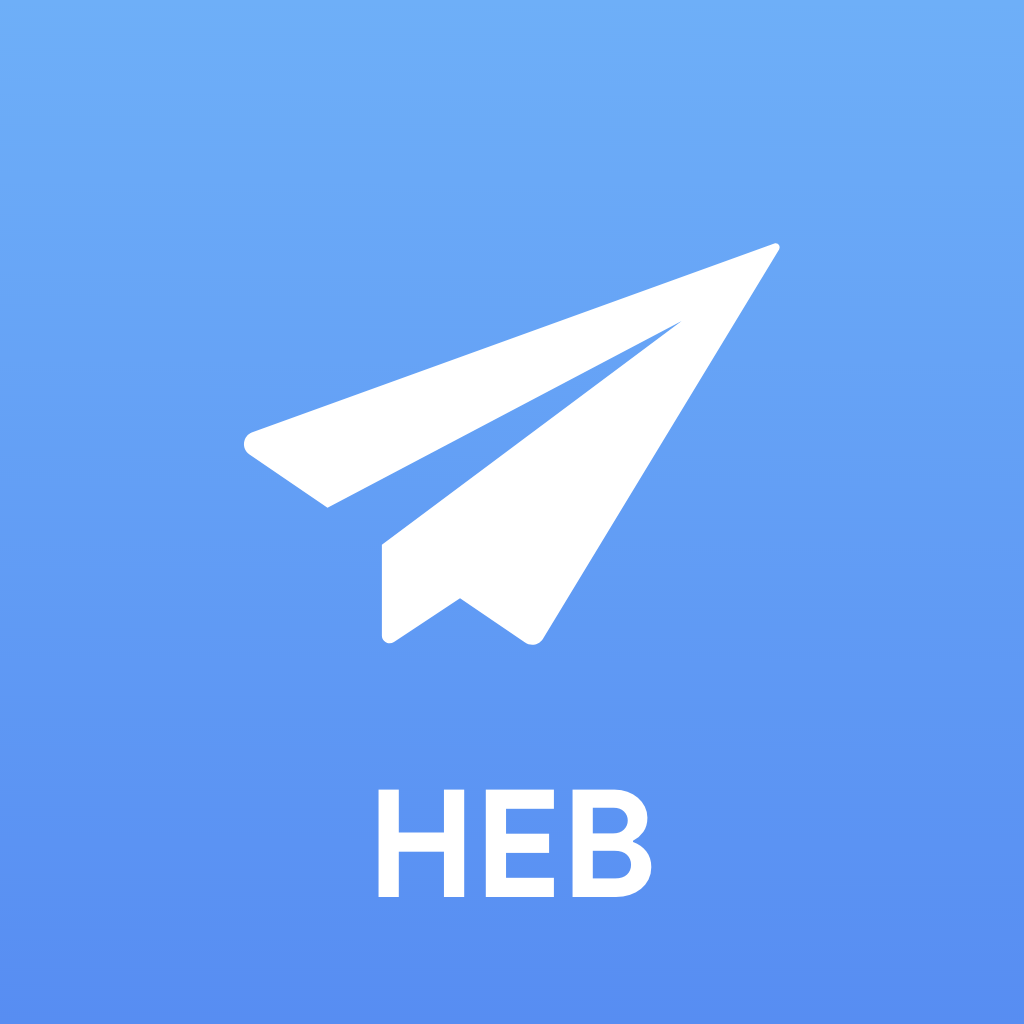
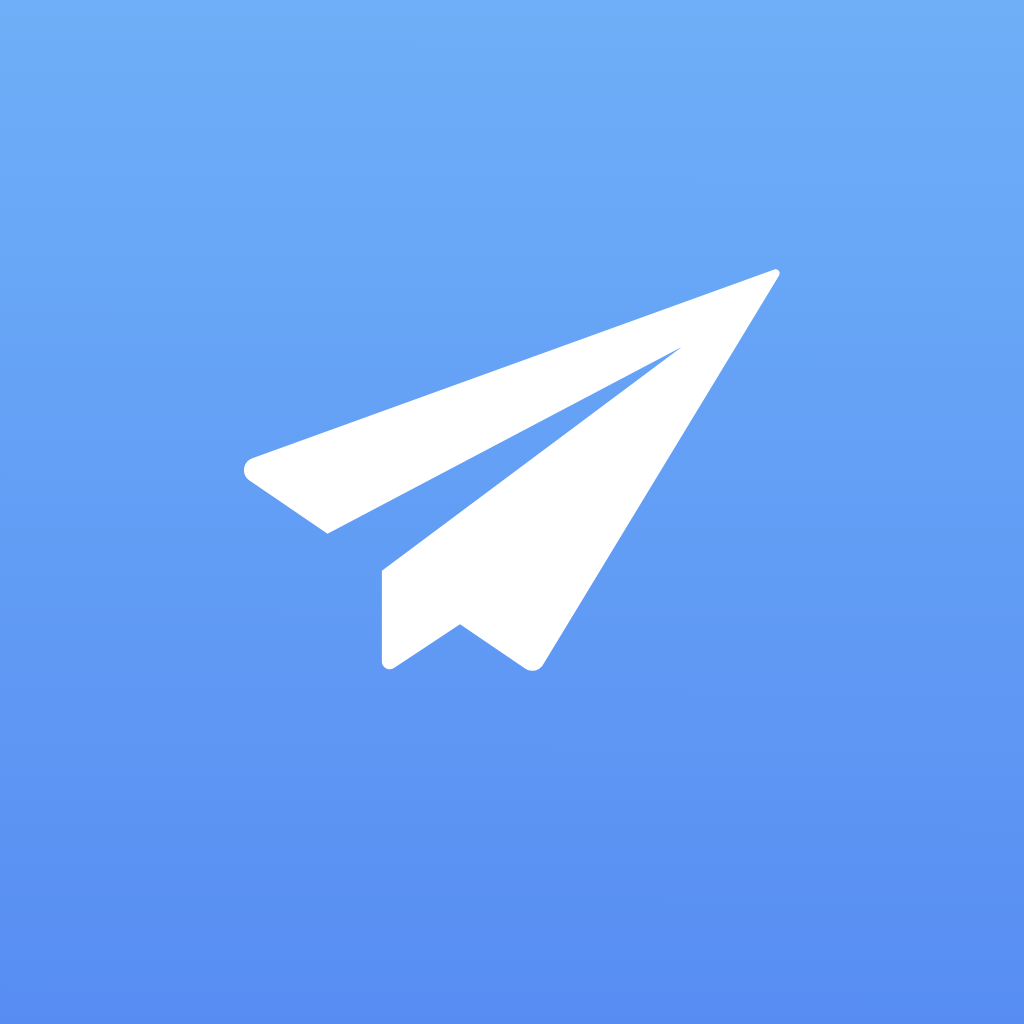
Updates

diff --git a/service-worker.js b/service-worker.js
@@ -37,7 +37,7 @@
 /* eslint-disable indent, no-unused-vars, no-multiple-empty-lines, max-nested-callbacks, space-before-function-paren, quotes, comma-spacing */
 'use strict';
 
-var precacheConfig = [["asset-manifest.json","d4511aee889f175e9337dd95642ffe23"],["favicon.ico","fd73a6eb26a08ee46e7fd3cc34e7f6bf"],["guides/1/0.png","639252f17a2ca5c0ade1f13b7278b1be"],["guides/1/1.png","db9a02b7b1e5dfc66c22195151ace0e8"],["guides/1/2.png","310691de2ee835bd74445cc0475a91ad"],["guides/10/0.png","6ac0cb50df014e01d73c4bbacf0b17ad"],["guides/10/1.png","8040d13a3c7bd964b04e853f79a73572"],["guides/10/2.png","79814e1cfd43e74f7aa3dba6a14a3dfc"],["guides/11/0.png","6ac0cb50df014e01d73c4bbacf0b17ad"],["guides/11/1.png","0c0eccca4b5c88d749d21bf042a7f794"],["guides/11/2.png","79814e1cfd43e74f7aa3dba6a14a3dfc"],["guides/12/0.png","639252f17a2ca5c0ade1f13b7278b1be"],["guides/12/1.png","1ab777f80ae75605ae4eced8a305e856"],["guides/12/2.png","3a8efa2fcb50c9770f0d56144ae1817f"],["guides/12/3.png","764076e609624c75d781ac5e2290364e"],["guides/12/4.png","877086393939b84eb0c6cafd34d1c222"],["guides/12/5.png","744ec3224b270829336609294f29543b"],["guides/13/0.png","ccd13009d35b6719a670c528d932bd03"],["guides/13/1.png","e68a9bf3e0eeccb5bd448163e354f6c3"],["guides/13/2.png","a85f7074380a8fe7aa75265a50624a54"],["guides/14/0.png","ccd13009d35b6719a670c528d932bd03"],["guides/14/1.png","157b5d5f49e513cfc32e8ae40b9a5dab"],["guides/14/2.png","a61f497655e57a10dfc1c8a906aaf1df"],["guides/14/3.png","8778ded03e7121231fcff44fe6c9107d"],["guides/15/0.png","ccd13009d35b6719a670c528d932bd03"],["guides/15/1.png","ecf26576edefe5f93e102500b67bad7a"],["guides/15/2.png","a0bd0fb530efe9741554081e827deab5"],["guides/2/0.png","639252f17a2ca5c0ade1f13b7278b1be"],["guides/2/1.png","89577602e15876d791b8de4e1b20e2ca"],["guides/2/2.png","eb846ea6617dfa75ccfbe7595a91f147"],["guides/2/3.png","14cc52be3596018a236a2cefb470986e"],["guides/3/0.png","04bf34aadf7c4800735a83ad16aeef4c"],["guides/3/1.png","744ec3224b270829336609294f29543b"],["guides/3/2.png","690a6ce088b785ddd8e0a4709367d64a"],["guides/3/3.png","bf24b376540c290caa1026513638dfd0"],["guides/3/4.png","258f331ab02ecc3b46179b4a4fcd7c6e"],["guides/4/0.png","8da18976430c48a2fd99a50aac5214fa"],["guides/5/0.png","a3147c4a089735802ce4f05aa1f1286e"],["guides/5/1.png","9a52430f22546c2770323fa60e0c944e"],["guides/5/2.png","42e1f0577ac7dee87b72d3ec17e38099"],["guides/5/3.png","8598f9899c0eb845c80f1b7c35145bc2"],["guides/5/4.png","8fb3ad5103902c6265d343d626c34bc9"],["guides/6/0.png","a3147c4a089735802ce4f05aa1f1286e"],["guides/6/1.png","9a52430f22546c2770323fa60e0c944e"],["guides/6/2.png","0f638c3f077ffa38041190230012e3e3"],["guides/6/3.png","9a456cc745d687d08f84d3360333232f"],["guides/6/4.png","9fe056df03697878636d2d66471d38c1"],["guides/6/5.png","fae0b9c9fead49cc09b57d9745024884"],["guides/7/0.png","59059efbff8ccd04f054a79661519948"],["guides/7/1.png","cfb99c78ccd3508c470422d35c44eb10"],["guides/7/2.png","136bd1cf3e224936d6e11d7d3a27b21f"],["guides/8/0.png","cd1c69fcee0c95a2e7334d033010e158"],["guides/8/1.png","900876d7ee45ad77cff2893c086c2758"],["guides/8/2.png","346b7081e959511fe13ce57fd7c6075b"],["guides/9/0.png","8c9848e747eacbe3883ab1a07838dc90"],["guides/9/1.png","9fce10a7076497402a98132d768280ea"],["guides/9/2.png","551969cbf36c4e56fe76994738dff182"],["guides/9/3.png","a44dadc10fc6e3c80c7bd192023ac61c"],["guides/9/4.png","2318802669185854c24110f46ff29e2f"],["icon.png","b336aeaf562774ffff6ac5d3d04b6562"],["icons/back.png","9bbfcb226b8b399e141b6f4e5bc37829"],["icons/books.png","bca3414c73ffd1a6115f7a2708264e2d"],["icons/camera.png","fb6b94ce1f5a0370cc1bae9568934c92"],["icons/clock.png","3f7c06d6e47b091eddf6f230ae8baf7e"],["icons/dji.png","23acd56c72e26ce225e89d326502a052"],["icons/duo.png","2d2c5fcb1697f64147ee8980d56ec71c"],["icons/facetime.png","0e8055adf95d3a13f0443780eaa42531"],["icons/icloud.png","f2e8c7d934a270c123f5f9efb6c08b9b"],["icons/messages.png","4ccc59cabb884457259b73d346e1452e"],["icons/nextcloud.png","88b03909244a765431dca2bd0d487b28"],["icons/sbb.png","96dab48f44482e42c19dfe5ad60d772f"],["icons/settings.png","44dc0d989b8219f897059266cdf27c26"],["icons/tripadvisor.png","d35f0a422d8f13fcbf7f15d86e734daa"],["index.html","ade064b7a7dfb11e0cb3d81fd88a73b2"],["manifest.json","a4ca799b0b2685cae7209d87b2822991"],["static/css/main.b274ac76.css","d7169f705179ed7bcc52412890d773a7"],["static/js/main.2d69c281.js","f5beb04daf3b92dae4e80cd74da58618"],["static/media/SF-Pro-Display-Bold.644563f4.otf","644563f48ab5fe8e9082b64b2729b068"],["static/media/SF-Pro-Display-Medium.51fd7406.otf","51fd7406327f2b1dbc8e708e6a9da9a5"]];
+var precacheConfig = [["asset-manifest.json","d4511aee889f175e9337dd95642ffe23"],["favicon.ico","fd73a6eb26a08ee46e7fd3cc34e7f6bf"],["guides/1/0.png","639252f17a2ca5c0ade1f13b7278b1be"],["guides/1/1.png","db9a02b7b1e5dfc66c22195151ace0e8"],["guides/1/2.png","310691de2ee835bd74445cc0475a91ad"],["guides/10/0.png","6ac0cb50df014e01d73c4bbacf0b17ad"],["guides/10/1.png","8040d13a3c7bd964b04e853f79a73572"],["guides/10/2.png","79814e1cfd43e74f7aa3dba6a14a3dfc"],["guides/11/0.png","6ac0cb50df014e01d73c4bbacf0b17ad"],["guides/11/1.png","0c0eccca4b5c88d749d21bf042a7f794"],["guides/11/2.png","79814e1cfd43e74f7aa3dba6a14a3dfc"],["guides/12/0.png","639252f17a2ca5c0ade1f13b7278b1be"],["guides/12/1.png","1ab777f80ae75605ae4eced8a305e856"],["guides/12/2.png","3a8efa2fcb50c9770f0d56144ae1817f"],["guides/12/3.png","764076e609624c75d781ac5e2290364e"],["guides/12/4.png","877086393939b84eb0c6cafd34d1c222"],["guides/12/5.png","744ec3224b270829336609294f29543b"],["guides/13/0.png","ccd13009d35b6719a670c528d932bd03"],["guides/13/1.png","e68a9bf3e0eeccb5bd448163e354f6c3"],["guides/13/2.png","a85f7074380a8fe7aa75265a50624a54"],["guides/14/0.png","ccd13009d35b6719a670c528d932bd03"],["guides/14/1.png","157b5d5f49e513cfc32e8ae40b9a5dab"],["guides/14/2.png","a61f497655e57a10dfc1c8a906aaf1df"],["guides/14/3.png","8778ded03e7121231fcff44fe6c9107d"],["guides/15/0.png","ccd13009d35b6719a670c528d932bd03"],["guides/15/1.png","ecf26576edefe5f93e102500b67bad7a"],["guides/15/2.png","a0bd0fb530efe9741554081e827deab5"],["guides/2/0.png","639252f17a2ca5c0ade1f13b7278b1be"],["guides/2/1.png","89577602e15876d791b8de4e1b20e2ca"],["guides/2/2.png","eb846ea6617dfa75ccfbe7595a91f147"],["guides/2/3.png","14cc52be3596018a236a2cefb470986e"],["guides/3/0.png","04bf34aadf7c4800735a83ad16aeef4c"],["guides/3/1.png","744ec3224b270829336609294f29543b"],["guides/3/2.png","690a6ce088b785ddd8e0a4709367d64a"],["guides/3/3.png","bf24b376540c290caa1026513638dfd0"],["guides/3/4.png","258f331ab02ecc3b46179b4a4fcd7c6e"],["guides/4/0.png","8da18976430c48a2fd99a50aac5214fa"],["guides/5/0.png","a3147c4a089735802ce4f05aa1f1286e"],["guides/5/1.png","9a52430f22546c2770323fa60e0c944e"],["guides/5/2.png","42e1f0577ac7dee87b72d3ec17e38099"],["guides/5/3.png","8598f9899c0eb845c80f1b7c35145bc2"],["guides/5/4.png","8fb3ad5103902c6265d343d626c34bc9"],["guides/6/0.png","a3147c4a089735802ce4f05aa1f1286e"],["guides/6/1.png","9a52430f22546c2770323fa60e0c944e"],["guides/6/2.png","0f638c3f077ffa38041190230012e3e3"],["guides/6/3.png","9a456cc745d687d08f84d3360333232f"],["guides/6/4.png","9fe056df03697878636d2d66471d38c1"],["guides/6/5.png","fae0b9c9fead49cc09b57d9745024884"],["guides/7/0.png","59059efbff8ccd04f054a79661519948"],["guides/7/1.png","cfb99c78ccd3508c470422d35c44eb10"],["guides/7/2.png","136bd1cf3e224936d6e11d7d3a27b21f"],["guides/8/0.png","cd1c69fcee0c95a2e7334d033010e158"],["guides/8/1.png","900876d7ee45ad77cff2893c086c2758"],["guides/8/2.png","346b7081e959511fe13ce57fd7c6075b"],["guides/9/0.png","8c9848e747eacbe3883ab1a07838dc90"],["guides/9/1.png","9fce10a7076497402a98132d768280ea"],["guides/9/2.png","551969cbf36c4e56fe76994738dff182"],["guides/9/3.png","a44dadc10fc6e3c80c7bd192023ac61c"],["guides/9/4.png","2318802669185854c24110f46ff29e2f"],["icon.png","9740e240e2cbe8c760d2ed4e05dae465"],["icons/back.png","9bbfcb226b8b399e141b6f4e5bc37829"],["icons/books.png","bca3414c73ffd1a6115f7a2708264e2d"],["icons/camera.png","fb6b94ce1f5a0370cc1bae9568934c92"],["icons/clock.png","3f7c06d6e47b091eddf6f230ae8baf7e"],["icons/dji.png","23acd56c72e26ce225e89d326502a052"],["icons/duo.png","2d2c5fcb1697f64147ee8980d56ec71c"],["icons/facetime.png","0e8055adf95d3a13f0443780eaa42531"],["icons/icloud.png","f2e8c7d934a270c123f5f9efb6c08b9b"],["icons/messages.png","4ccc59cabb884457259b73d346e1452e"],["icons/nextcloud.png","88b03909244a765431dca2bd0d487b28"],["icons/sbb.png","96dab48f44482e42c19dfe5ad60d772f"],["icons/settings.png","44dc0d989b8219f897059266cdf27c26"],["icons/tripadvisor.png","d35f0a422d8f13fcbf7f15d86e734daa"],["index.html","ade064b7a7dfb11e0cb3d81fd88a73b2"],["manifest.json","a4ca799b0b2685cae7209d87b2822991"],["static/css/main.b274ac76.css","d7169f705179ed7bcc52412890d773a7"],["static/js/main.2d69c281.js","f5beb04daf3b92dae4e80cd74da58618"],["static/media/SF-Pro-Display-Bold.644563f4.otf","644563f48ab5fe8e9082b64b2729b068"],["static/media/SF-Pro-Display-Medium.51fd7406.otf","51fd7406327f2b1dbc8e708e6a9da9a5"]];
 var cacheName = 'sw-precache-v2-sw-precache-' + (self.registration ? self.registration.scope : '');
 
 
